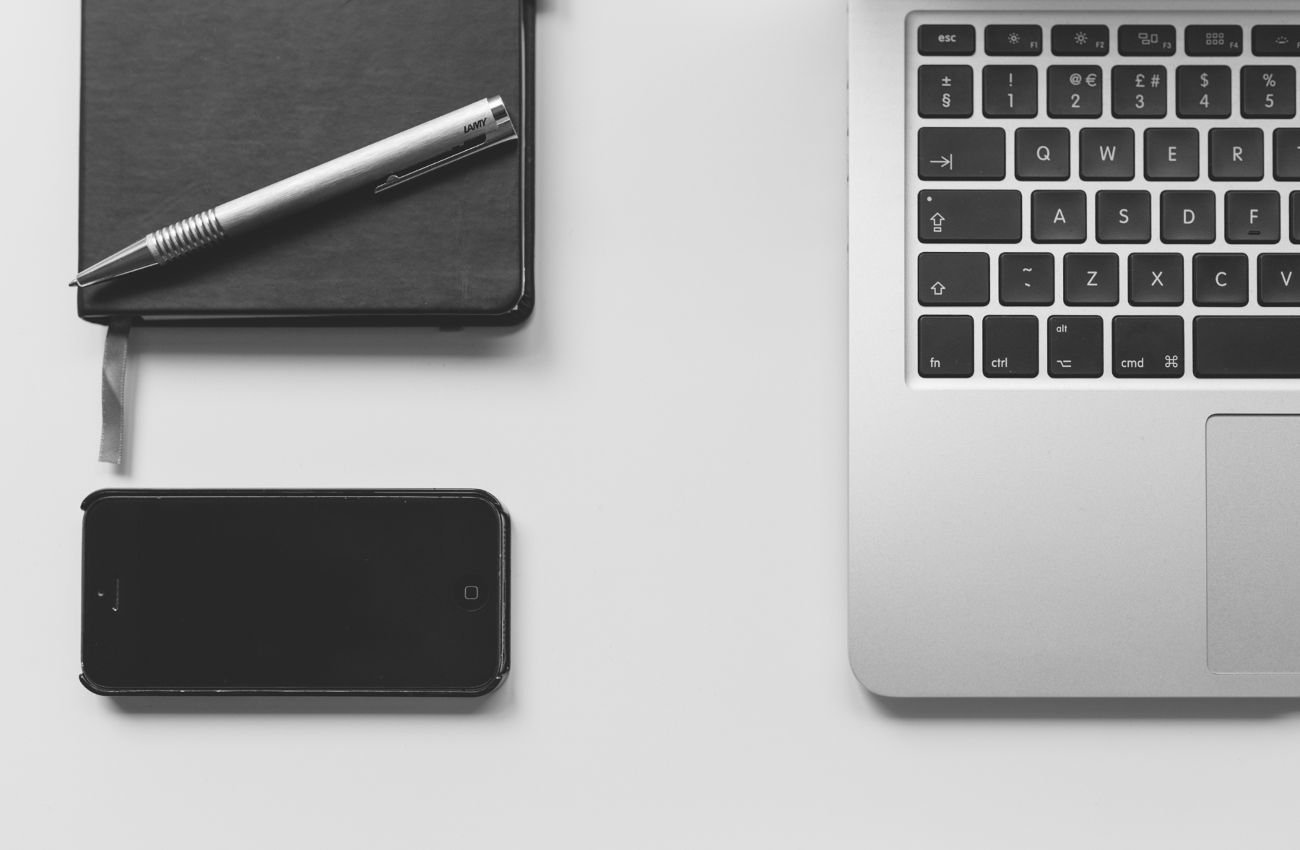
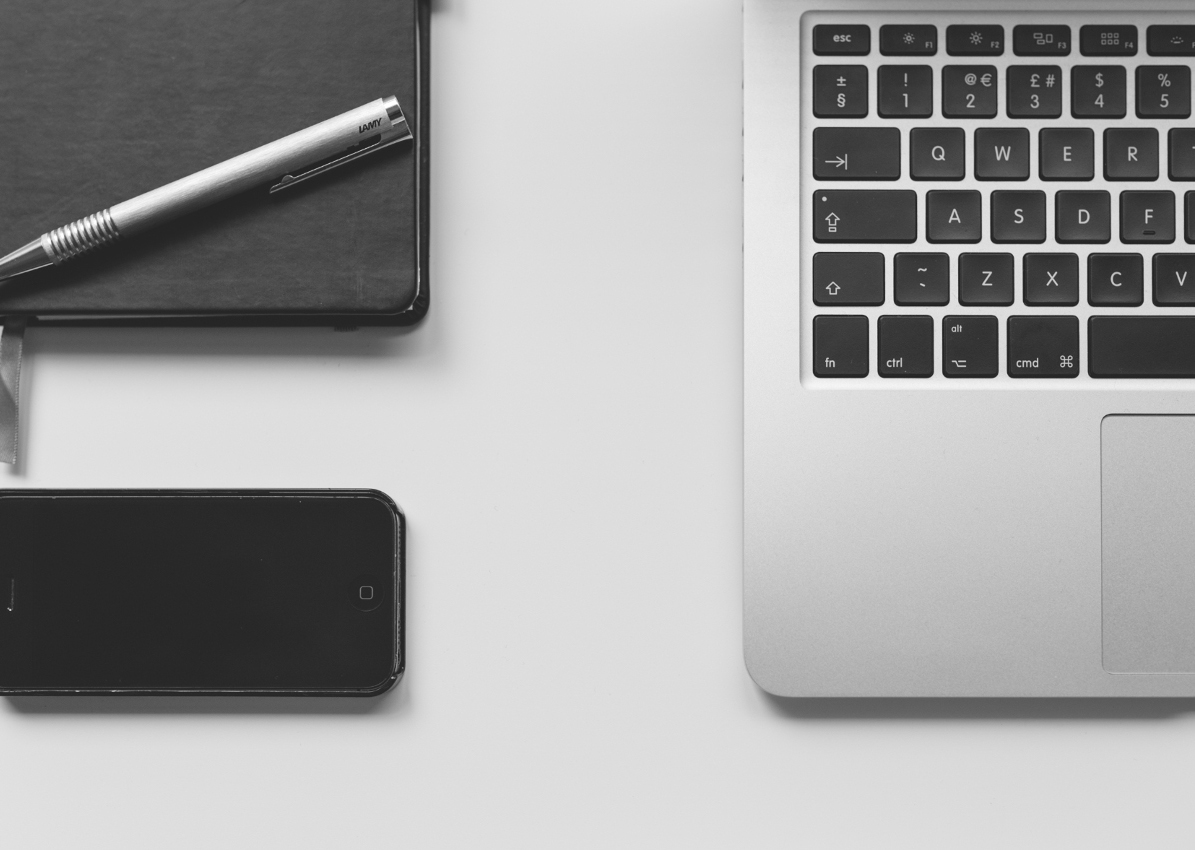
Improved contrast by adjusting image and added colour to text outline

diff --git a/app/assets/stylesheets/grayscale.scss b/app/assets/stylesheets/grayscale.scss
@@ -223,7 +223,12 @@ a {
 
 .web-dev-heading {
   background: url('developer-desk.jpg') no-repeat center center scroll;
-  color:black;
+  color:#000;
+  text-shadow:
+          -1px -1px 0 #ffffff,
+          1px -1px 0 #ffffff,
+          -1px 1px 0 #ffffff,
+          1px 1px 0 #ffffff;
 }
 
 .project-div-wrapper {
